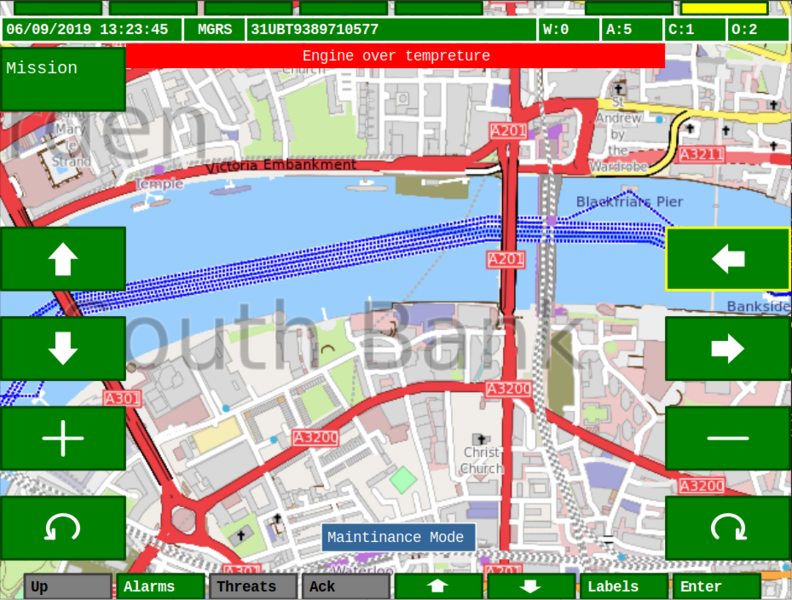
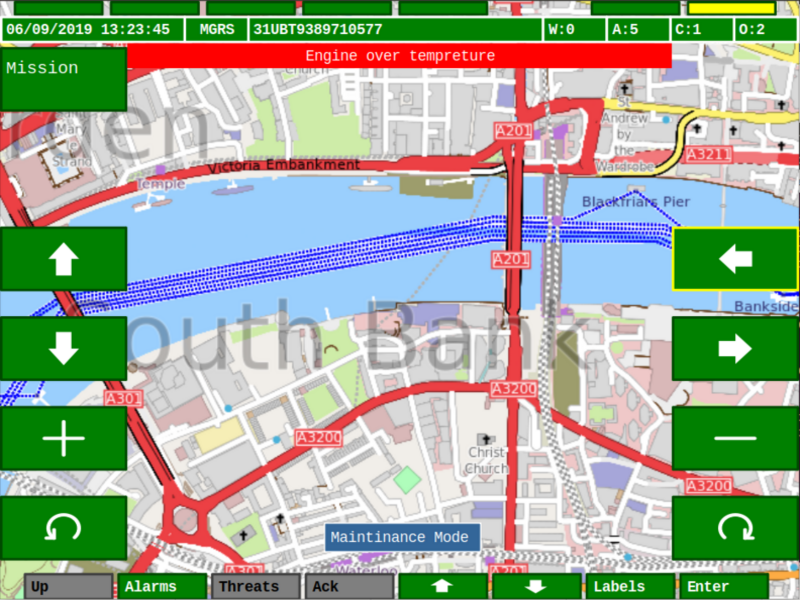
Scaling images so they are the same size

diff --git a/images/README.md b/images/README.md
@@ -25,10 +25,10 @@
 ## Hardware
 ### RD-104 HD
 
-![Leonardo Rugged Display](Display_RD104_01.jpg)<br>
+![Leonardo Rugged Display](Display_RD104_01.png)<br>
 **Leonardo rugged display with Core i7 CPU built in.**
 
-![Leonardo Rugged Display](Display_RD104_02.jpg)<br>
+![Leonardo Rugged Display](Display_RD104_02.png)<br>
 **GVA display with NMEA and Camera source**
 
 ## gva-tool
